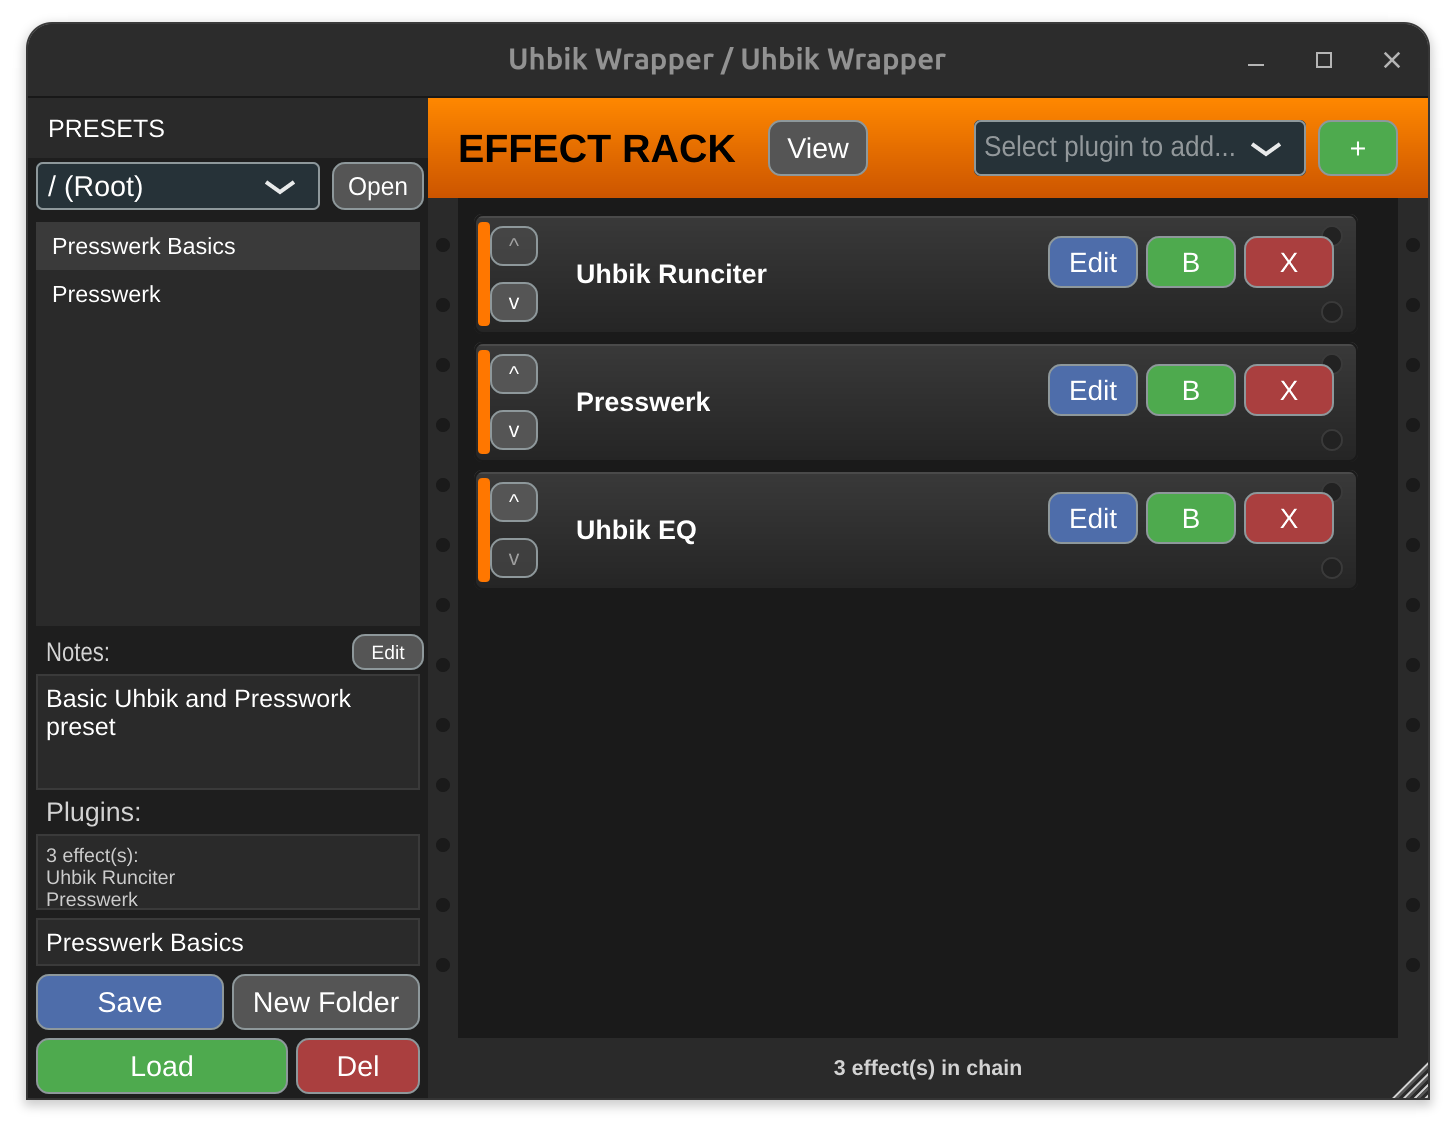
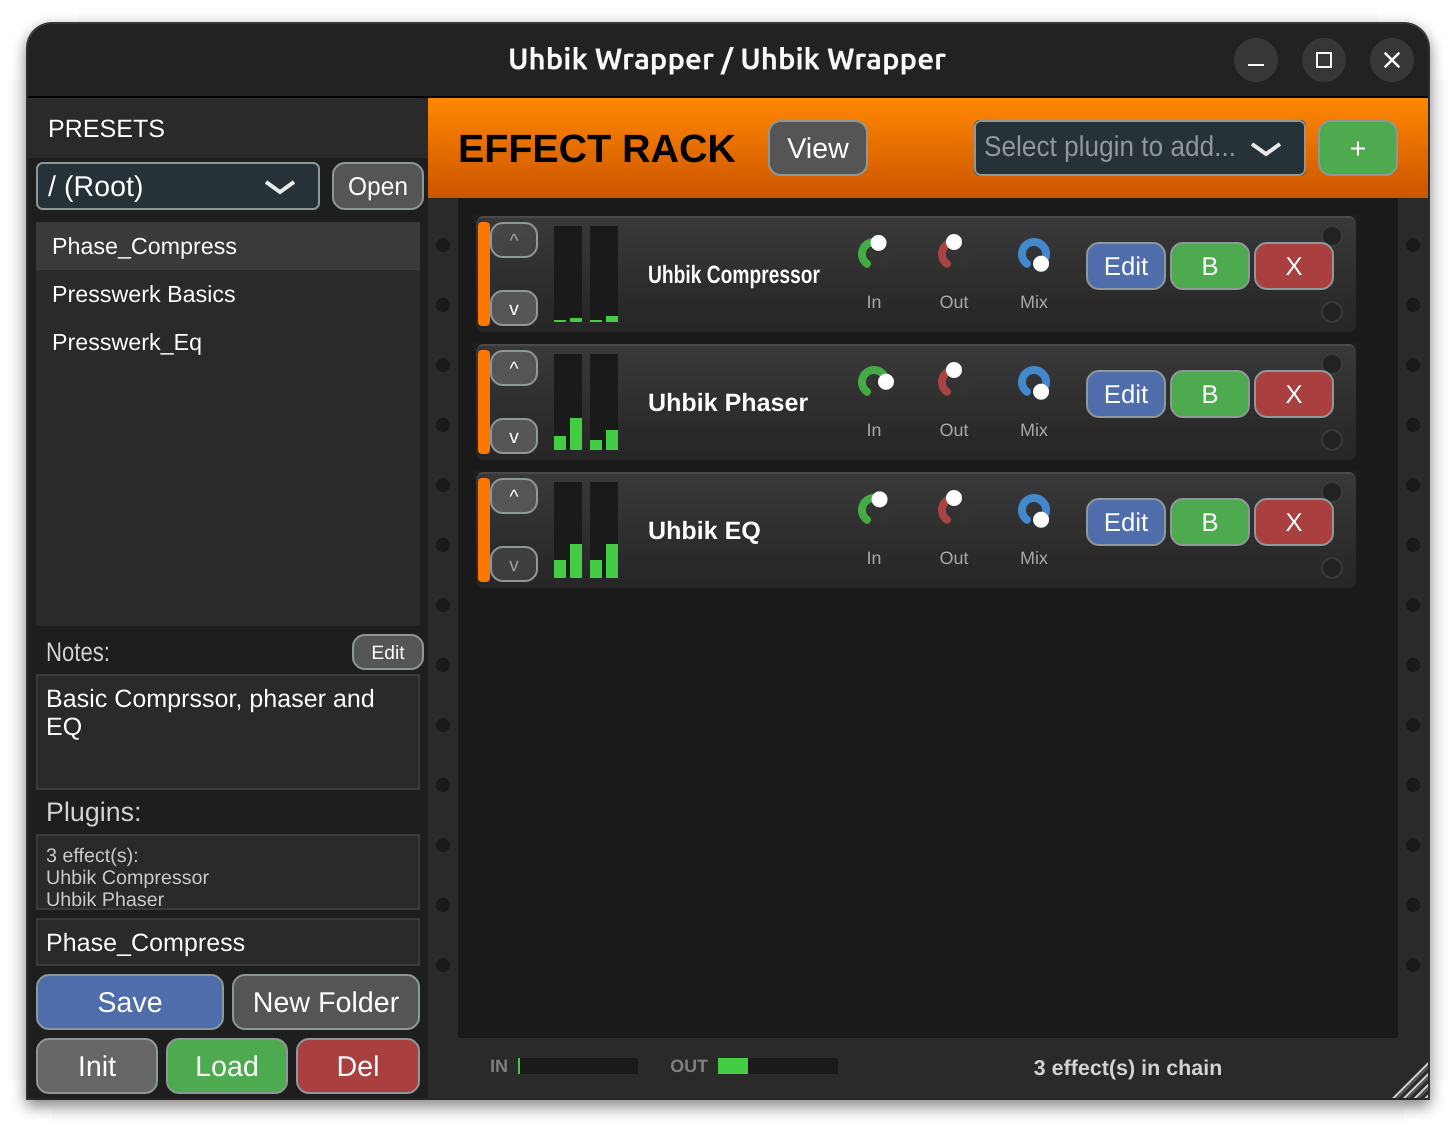
Add level meters per-effect and master
- Add input/output level meters to each effect slot
- Vertical stereo meters with color-coded levels (green/yellow/red)
- Add master IN/OUT meters in footer bar
- Peak hold with decay for smooth metering
- Update timer to 30Hz for responsive meter display
- Update screenshot

🤖 Generated with [Claude Code](https://claude.com/claude-code)

diff --git a/Source/PluginEditor.cpp b/Source/PluginEditor.cpp
@@ -50,7 +50,7 @@ UhbikWrapperAudioProcessorEditor::UhbikWrapperAudioProcessorEditor (UhbikWrapper
         });
     }
 
-    startTimerHz(2);
+    startTimerHz(30);  // 30Hz for smooth level metering
 }
 
 UhbikWrapperAudioProcessorEditor::~UhbikWrapperAudioProcessorEditor()
@@ -72,6 +72,21 @@ void UhbikWrapperAudioProcessorEditor::timerCallback()
         statusMessage = newStatus;
         repaint();
     }
+
+    // Update level meters for each slot
+    for (size_t i = 0; i < slotComponents.size() && i < static_cast<size_t>(chainSize); ++i)
+    {
+        auto& slot = audioProcessor.effectChain[i];
+        slotComponents[i]->setLevels(
+            slot.inputLevelL.load(),
+            slot.inputLevelR.load(),
+            slot.outputLevelL.load(),
+            slot.outputLevelR.load()
+        );
+    }
+
+    // Repaint footer for master meters
+    repaint(0, getHeight() - 30, getWidth(), 30);
 }
 
 void UhbikWrapperAudioProcessorEditor::changeListenerCallback(juce::ChangeBroadcaster*)
@@ -328,9 +343,64 @@ void UhbikWrapperAudioProcessorEditor::paint (juce::Graphics& g)
     g.setColour(juce::Colour(0xff2a2a2a));
     g.fillRect(browserWidth, getHeight() - 30, getWidth() - browserWidth, 30);
 
+    // Master meters in footer
+    int meterWidth = 60;
+    int meterHeight = 8;
+    int meterY = getHeight() - 20;
+
+    // Input meter label and bar
+    g.setColour(juce::Colours::grey);
+    g.setFont(10.0f);
+    g.drawText("IN", browserWidth + 20, meterY - 2, 20, 12, juce::Justification::centredRight);
+
+    // Input meter background
+    g.setColour(juce::Colour(0xff1a1a1a));
+    g.fillRect(browserWidth + 45, meterY, meterWidth, meterHeight);
+
+    // Input meter levels
+    float inL = audioProcessor.masterInputLevelL.load();
+    float inR = audioProcessor.masterInputLevelR.load();
+    int inLevelWidth = static_cast<int>(juce::jmin(1.0f, (inL + inR) * 0.5f) * meterWidth);
+    if (inLevelWidth > 0)
+    {
+        float avgIn = (inL + inR) * 0.5f;
+        if (avgIn > 0.9f)
+            g.setColour(juce::Colour(0xffff3333));
+        else if (avgIn > 0.7f)
+            g.setColour(juce::Colour(0xffffaa00));
+        else
+            g.setColour(juce::Colour(0xff44cc44));
+        g.fillRect(browserWidth + 45, meterY, inLevelWidth, meterHeight);
+    }
+
+    // Output meter label and bar
+    g.setColour(juce::Colours::grey);
+    g.drawText("OUT", browserWidth + 115, meterY - 2, 25, 12, juce::Justification::centredRight);
+
+    // Output meter background
+    g.setColour(juce::Colour(0xff1a1a1a));
+    g.fillRect(browserWidth + 145, meterY, meterWidth, meterHeight);
+
+    // Output meter levels
+    float outL = audioProcessor.masterOutputLevelL.load();
+    float outR = audioProcessor.masterOutputLevelR.load();
+    int outLevelWidth = static_cast<int>(juce::jmin(1.0f, (outL + outR) * 0.5f) * meterWidth);
+    if (outLevelWidth > 0)
+    {
+        float avgOut = (outL + outR) * 0.5f;
+        if (avgOut > 0.9f)
+            g.setColour(juce::Colour(0xffff3333));
+        else if (avgOut > 0.7f)
+            g.setColour(juce::Colour(0xffffaa00));
+        else
+            g.setColour(juce::Colour(0xff44cc44));
+        g.fillRect(browserWidth + 145, meterY, outLevelWidth, meterHeight);
+    }
+
+    // Status message (shifted right to make room for meters)
     g.setColour(juce::Colours::lightgrey);
     g.setFont(12.0f);
-    g.drawFittedText(statusMessage, browserWidth, getHeight() - 30, getWidth() - browserWidth, 30, juce::Justification::centred, 1);
+    g.drawFittedText(statusMessage, browserWidth + 220, getHeight() - 30, getWidth() - browserWidth - 240, 30, juce::Justification::centred, 1);
 
     // Empty state message
     if (audioProcessor.getChainSize() == 0)

diff --git a/Source/PluginProcessor.cpp b/Source/PluginProcessor.cpp
@@ -442,6 +442,18 @@ void UhbikWrapperAudioProcessor::processBlock (juce::AudioBuffer<float>& buffer,
     for (int ch = 0; ch < mainChannels && ch < numBufferChannels; ++ch)
         buffer.applyGain(ch, 0, numSamples, inputGain);
 
+    // Measure master input levels (after input gain)
+    if (numBufferChannels >= 2)
+    {
+        float peakL = buffer.getMagnitude(0, 0, numSamples);
+        float peakR = buffer.getMagnitude(1, 0, numSamples);
+        // Simple peak hold with decay
+        float currentL = masterInputLevelL.load();
+        float currentR = masterInputLevelR.load();
+        masterInputLevelL.store(peakL > currentL ? peakL : currentL * 0.95f);
+        masterInputLevelR.store(peakR > currentR ? peakR : currentR * 0.95f);
+    }
+
     // Process each effect in the chain
     juce::AudioBuffer<float> slotDryBuffer(mainChannels, numSamples);
 
@@ -468,6 +480,17 @@ void UhbikWrapperAudioProcessor::processBlock (juce::AudioBuffer<float>& buffer,
             {
                 for (int ch = 0; ch < mainChannels && ch < numBufferChannels; ++ch)
                     buffer.applyGain(ch, 0, numSamples, slotInputGain);
+            }
+
+            // Measure per-slot input levels
+            if (numBufferChannels >= 2)
+            {
+                float peakL = buffer.getMagnitude(0, 0, numSamples);
+                float peakR = buffer.getMagnitude(1, 0, numSamples);
+                float currentL = slot.inputLevelL.load();
+                float currentR = slot.inputLevelR.load();
+                slot.inputLevelL.store(peakL > currentL ? peakL : currentL * 0.95f);
+                slot.inputLevelR.store(peakR > currentR ? peakR : currentR * 0.95f);
             }
 
             int pluginInputChannels = slot.plugin->getTotalNumInputChannels();
@@ -524,6 +547,17 @@ void UhbikWrapperAudioProcessor::processBlock (juce::AudioBuffer<float>& buffer,
                     buffer.addFrom(ch, 0, slotDryBuffer, ch, 0, numSamples, slotDry);
                 }
             }
+
+            // Measure per-slot output levels
+            if (numBufferChannels >= 2)
+            {
+                float peakL = buffer.getMagnitude(0, 0, numSamples);
+                float peakR = buffer.getMagnitude(1, 0, numSamples);
+                float currentL = slot.outputLevelL.load();
+                float currentR = slot.outputLevelR.load();
+                slot.outputLevelL.store(peakL > currentL ? peakL : currentL * 0.95f);
+                slot.outputLevelR.store(peakR > currentR ? peakR : currentR * 0.95f);
+            }
         }
     }
 
@@ -540,6 +574,17 @@ void UhbikWrapperAudioProcessor::processBlock (juce::AudioBuffer<float>& buffer,
     // Apply output gain to main channels
     for (int ch = 0; ch < mainChannels && ch < numBufferChannels; ++ch)
         buffer.applyGain(ch, 0, numSamples, outputGain);
+
+    // Measure master output levels
+    if (numBufferChannels >= 2)
+    {
+        float peakL = buffer.getMagnitude(0, 0, numSamples);
+        float peakR = buffer.getMagnitude(1, 0, numSamples);
+        float currentL = masterOutputLevelL.load();
+        float currentR = masterOutputLevelR.load();
+        masterOutputLevelL.store(peakL > currentL ? peakL : currentL * 0.95f);
+        masterOutputLevelR.store(peakR > currentR ? peakR : currentR * 0.95f);
+    }
 }
 
 bool UhbikWrapperAudioProcessor::hasEditor() const

diff --git a/Source/EffectSlot.cpp b/Source/EffectSlot.cpp
@@ -141,6 +141,18 @@ void EffectSlotComponent::paint(juce::Graphics& g)
     g.setColour(juce::Colour(0xff3a3a3a));
     g.drawEllipse(bounds.getWidth() - 18.0f, 6.0f, 10.0f, 10.0f, 1.0f);
     g.drawEllipse(bounds.getWidth() - 18.0f, bounds.getHeight() - 16.0f, 10.0f, 10.0f, 1.0f);
+
+    // Draw level meters (positioned after arrows, before name)
+    int meterX = 40;  // After arrows and status bar
+    int meterWidth = 14;
+    int meterHeight = bounds.getHeight() - 12;
+    int meterY = 6;
+
+    // Input meter
+    drawMeter(g, juce::Rectangle<int>(meterX, meterY, meterWidth, meterHeight), inputLevelL, inputLevelR);
+
+    // Output meter
+    drawMeter(g, juce::Rectangle<int>(meterX + meterWidth + 4, meterY, meterWidth, meterHeight), outputLevelL, outputLevelR);
 }
 
 void EffectSlotComponent::resized()
@@ -156,6 +168,9 @@ void EffectSlotComponent::resized()
 
     // Status bar space
     bounds.removeFromLeft(10);
+
+    // Space for level meters (2 meters * 14px + gap)
+    bounds.removeFromLeft(36);
 
     auto buttonWidth = 40;
     auto buttonHeight = 24;
@@ -250,4 +265,57 @@ void EffectSlotComponent::setMixValues(float inputGainDb, float outputGainDb, fl
     inputGainSlider.setValue(inputGainDb, juce::dontSendNotification);
     outputGainSlider.setValue(outputGainDb, juce::dontSendNotification);
     mixSlider.setValue(mixPercent, juce::dontSendNotification);
+}
+
+void EffectSlotComponent::setLevels(float inL, float inR, float outL, float outR)
+{
+    inputLevelL = inL;
+    inputLevelR = inR;
+    outputLevelL = outL;
+    outputLevelR = outR;
+    repaint();  // Trigger repaint to update meters
+}
+
+void EffectSlotComponent::drawMeter(juce::Graphics& g, juce::Rectangle<int> bounds, float levelL, float levelR)
+{
+    // Background
+    g.setColour(juce::Colour(0xff1a1a1a));
+    g.fillRect(bounds);
+
+    int meterHeight = bounds.getHeight();
+    int meterWidth = bounds.getWidth() / 2 - 1;
+
+    // Left channel
+    auto leftBounds = bounds.removeFromLeft(meterWidth);
+    int levelHeight = static_cast<int>(juce::jmin(1.0f, levelL) * meterHeight);
+
+    // Gradient from green to yellow to red
+    if (levelHeight > 0)
+    {
+        auto meterRect = leftBounds.withTop(leftBounds.getBottom() - levelHeight);
+        if (levelL > 0.9f)
+            g.setColour(juce::Colour(0xffff3333));  // Red for hot
+        else if (levelL > 0.7f)
+            g.setColour(juce::Colour(0xffffaa00));  // Yellow/orange
+        else
+            g.setColour(juce::Colour(0xff44cc44));  // Green
+        g.fillRect(meterRect);
+    }
+
+    // Right channel
+    bounds.removeFromLeft(2);  // Gap
+    auto rightBounds = bounds;
+    levelHeight = static_cast<int>(juce::jmin(1.0f, levelR) * meterHeight);
+
+    if (levelHeight > 0)
+    {
+        auto meterRect = rightBounds.withTop(rightBounds.getBottom() - levelHeight);
+        if (levelR > 0.9f)
+            g.setColour(juce::Colour(0xffff3333));
+        else if (levelR > 0.7f)
+            g.setColour(juce::Colour(0xffffaa00));
+        else
+            g.setColour(juce::Colour(0xff44cc44));
+        g.fillRect(meterRect);
+    }
 }

diff --git a/Source/PluginProcessor.h b/Source/PluginProcessor.h
@@ -15,6 +15,12 @@ struct EffectSlot
     std::atomic<float> outputGainDb{0.0f};  // -24 to +24 dB
     std::atomic<float> mixPercent{100.0f};  // 0-100% wet
 
+    // Level metering (updated by audio thread, read by UI)
+    std::atomic<float> inputLevelL{0.0f};   // 0.0 to 1.0 peak
+    std::atomic<float> inputLevelR{0.0f};
+    std::atomic<float> outputLevelL{0.0f};
+    std::atomic<float> outputLevelR{0.0f};
+
     EffectSlot() = default;
     ~EffectSlot() = default;
 
@@ -27,6 +33,10 @@ struct EffectSlot
         , inputGainDb(other.inputGainDb.load())
         , outputGainDb(other.outputGainDb.load())
         , mixPercent(other.mixPercent.load())
+        , inputLevelL(other.inputLevelL.load())
+        , inputLevelR(other.inputLevelR.load())
+        , outputLevelL(other.outputLevelL.load())
+        , outputLevelR(other.outputLevelR.load())
     {}
 
     // Custom move assignment
@@ -41,6 +51,10 @@ struct EffectSlot
             inputGainDb.store(other.inputGainDb.load());
             outputGainDb.store(other.outputGainDb.load());
             mixPercent.store(other.mixPercent.load());
+            inputLevelL.store(other.inputLevelL.load());
+            inputLevelR.store(other.inputLevelR.load());
+            outputLevelL.store(other.outputLevelL.load());
+            outputLevelR.store(other.outputLevelR.load());
         }
         return *this;
     }
@@ -122,6 +136,12 @@ public:
     // UI state (saved with plugin state)
     std::atomic<bool> debugLogging{true};  // On by default for debugging
     std::atomic<float> uiScale{1.0f};
+
+    // Master level metering (updated by audio thread, read by UI)
+    std::atomic<float> masterInputLevelL{0.0f};
+    std::atomic<float> masterInputLevelR{0.0f};
+    std::atomic<float> masterOutputLevelL{0.0f};
+    std::atomic<float> masterOutputLevelR{0.0f};
 
 private:
     JUCE_DECLARE_NON_COPYABLE_WITH_LEAK_DETECTOR (UhbikWrapperAudioProcessor)

diff --git a/Source/EffectSlot.h b/Source/EffectSlot.h
@@ -38,8 +38,14 @@ public:
     void updateBypassButtonColour();
     void setCanMove(bool up, bool down);
     void setMixValues(float inputGainDb, float outputGainDb, float mixPercent);
+    void setLevels(float inL, float inR, float outL, float outR);
 
 private:
+    void drawMeter(juce::Graphics& g, juce::Rectangle<int> bounds, float levelL, float levelR);
+
+    // Level values (updated from timer)
+    float inputLevelL = 0.0f, inputLevelR = 0.0f;
+    float outputLevelL = 0.0f, outputLevelR = 0.0f;
     int slotIndex;
     juce::String pluginName;
     bool isBypassed;
